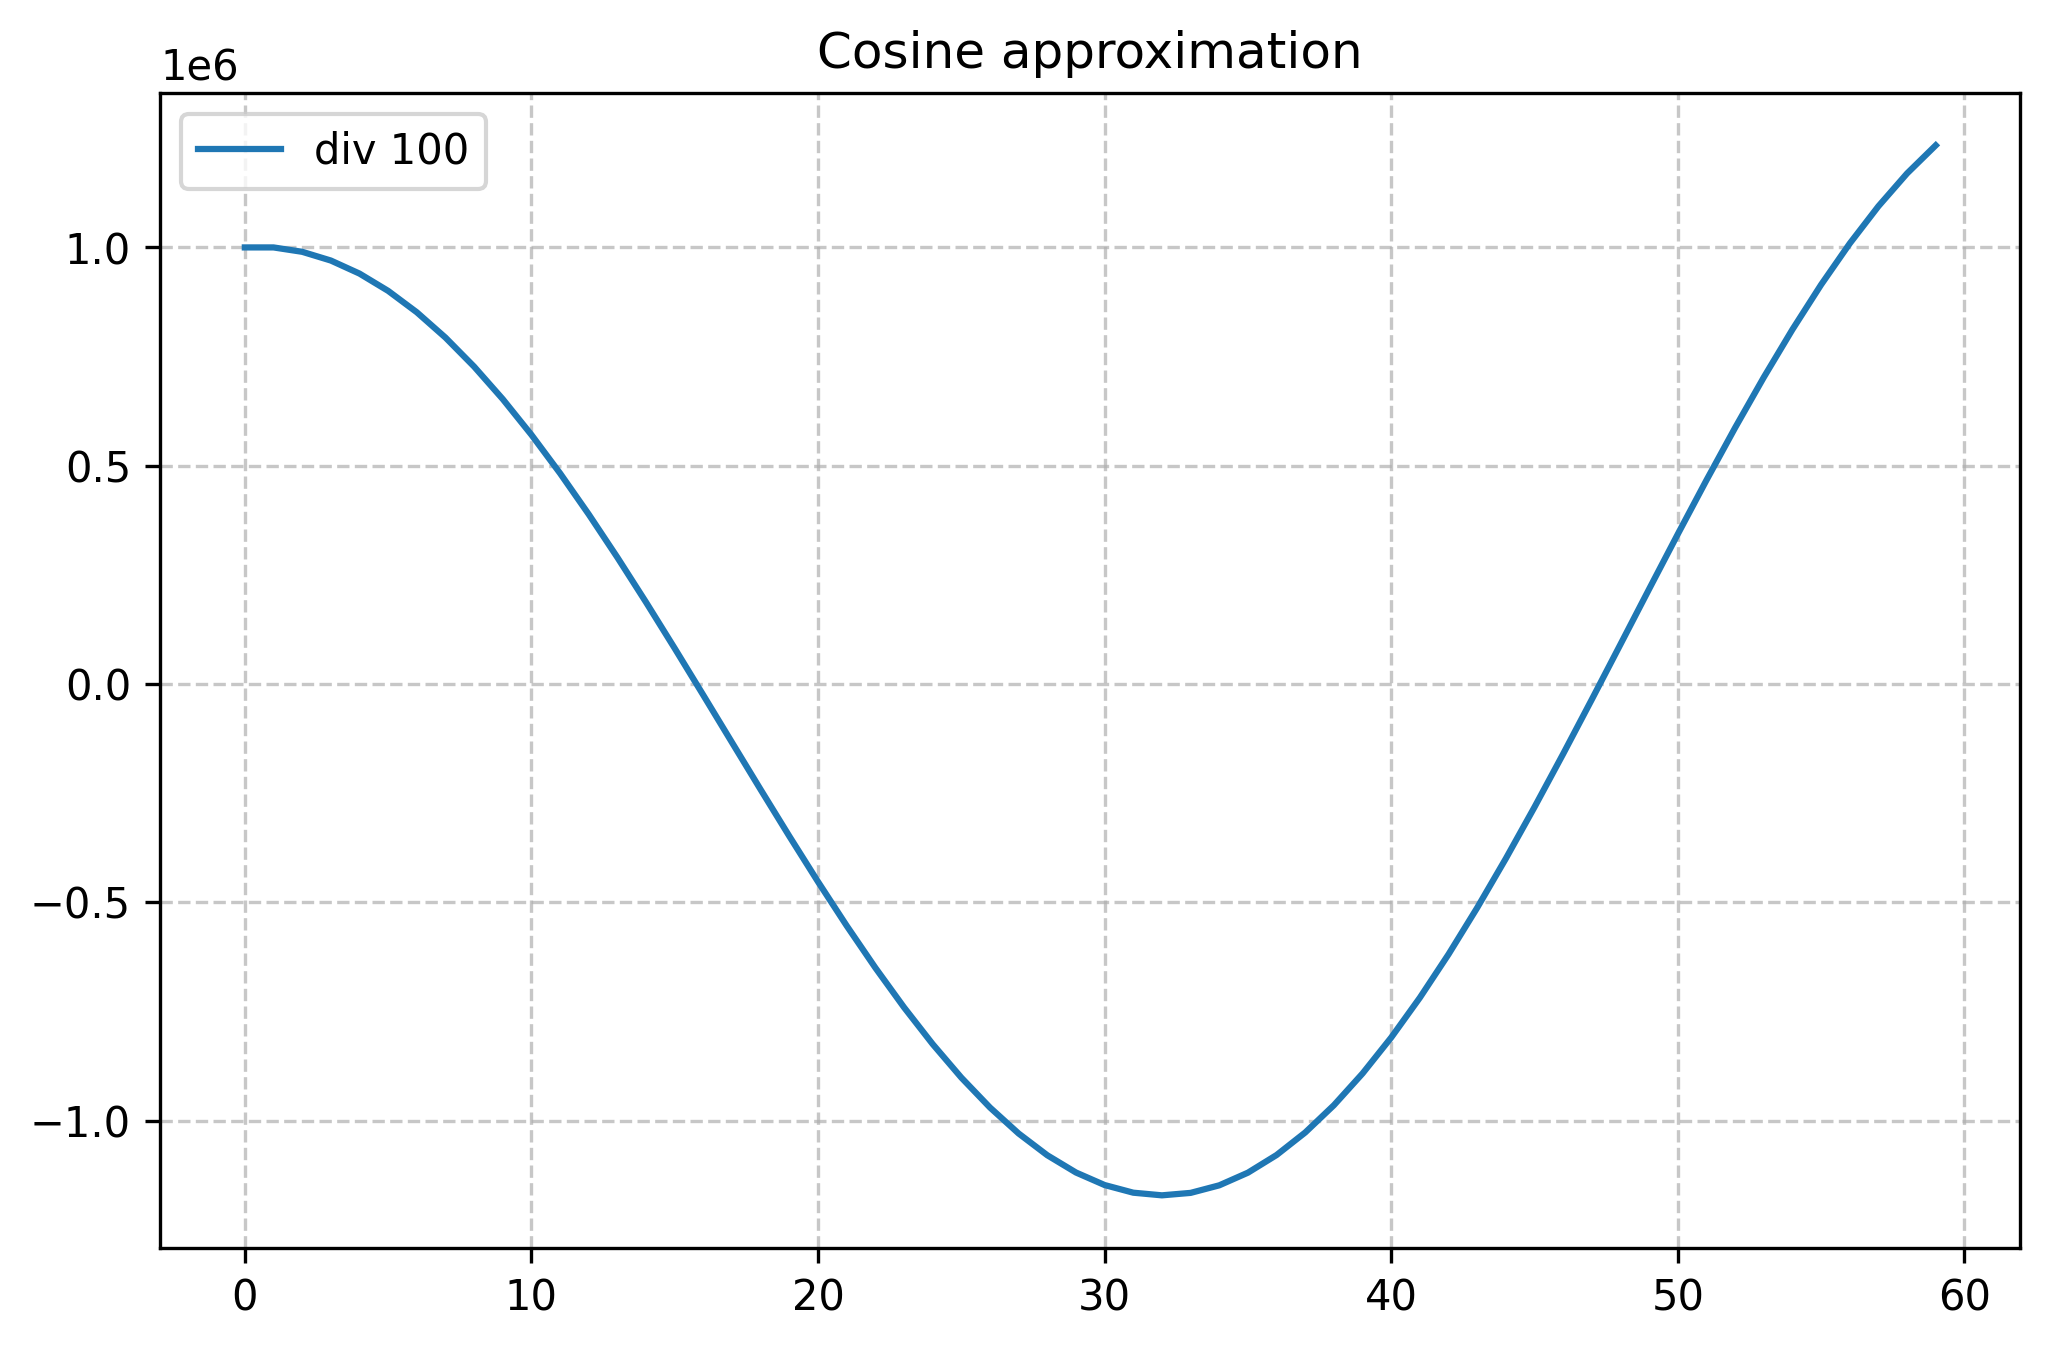
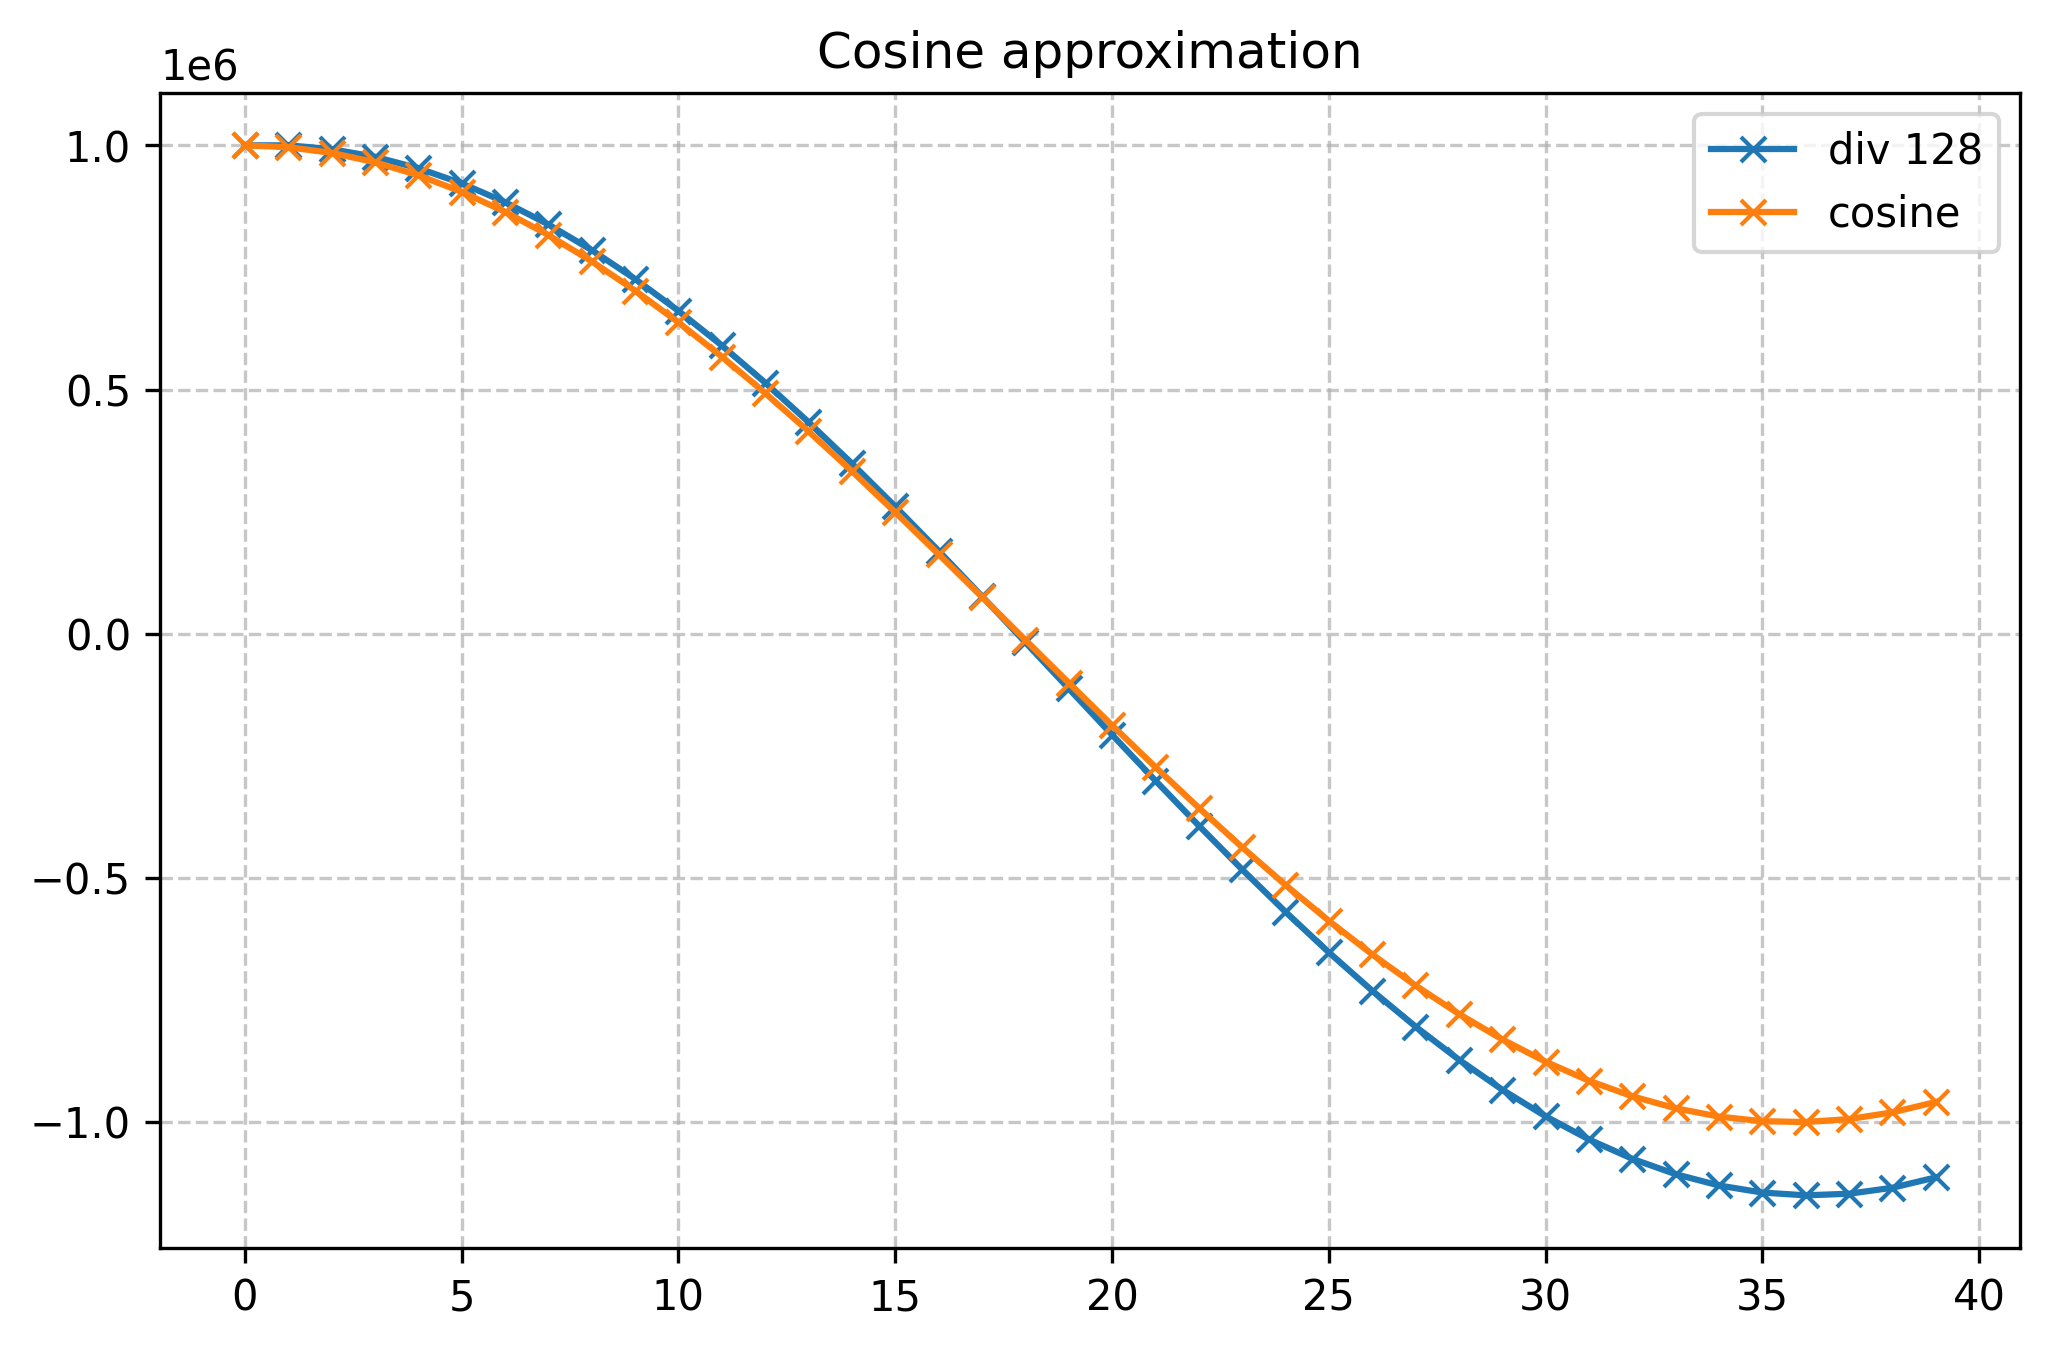
Divider 128.

diff --git a/cosine.py b/cosine.py
@@ -7,7 +7,7 @@ import math
 
 plot_nr = 0
 
-def plot_numbers(numbers, dividers, nr_points):
+def plot_numbers(numbers, dividers, nr_points, plot_points=False):
     
     # Plotting the numbers
     plt.figure(figsize=(8, 5))  # Optional: Adjust the figure size
@@ -18,7 +18,11 @@ def plot_numbers(numbers, dividers, nr_points):
         else:
             label = f"div %d" % dividers[i]
             
-        plt.plot(n[0:nr_points], label=label)
+        if plot_points:
+            plt.plot(n[0:nr_points], marker="x", label=label)
+        else:
+            plt.plot(n[0:nr_points], label=label)
+            
     
     # Adding titles and labels
     plt.title('Cosine approximation')
@@ -85,8 +89,12 @@ if True:
     plot_numbers([ c3, cos1 ], [ 16384, None ], 1000 )
 
 if True:
-    c4  = cosine(100, 100)
-    plot_numbers([ c4 ], [ 100 ], 60 )
+    c4  = cosine(128, 128)
+
+    x = np.linspace(0, 128/72 * 2 * np.pi, 128)  # 0 to 2π with 100 points
+    cos4 = np.cos(x) * 1000000           # Apply cosine function
+
+    plot_numbers([ c4, cos4 ], [ 128, None ], 40, True )
 
 
 if True:

diff --git a/README.md b/README.md
@@ -13,5 +13,26 @@ I reimplemented the function in Python to have a closer look at the behavior.
 
 Here's what happens when you use different dividers:
 
-![Plots for divider numberes 4096, 8192, 16384](cosine_plot_0.png)
+![Plot for divider numberes 4096, 8192, 16384](cosine_plot_0.png)
+
+Over time, the amplitude of the function increases. But how does it compare to a real
+cosine function? Here's a comparison between a real cosine and the function with
+a 16384 division factor:
+
+![Plot for divider 16384 along with a cosine](cosine_plot_1.png)
+
+I manually tuned the period of the real cosine to get a close match of the
+period of the two functions. Let's look at the same graph but only plot
+the first 1000 numbers:
+
+![Plot for divider 16384 along with a cosine for 1000 points](cosine_plot_2.png)
+
+Not bad, especially in the first quadrant, before the approximation first
+goes through zero,.
+
+Here's what happens for a very low divider of 128. I only show the first 2
+quadrants, after that the approximation already starts to diverge way too much...
+
+![Plot for divider 128 along with a cosine](cosine_plot_3.png)
+
 
